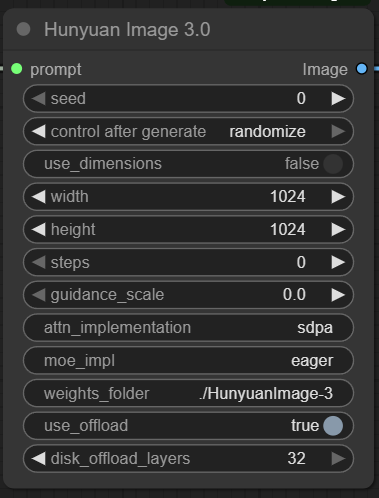
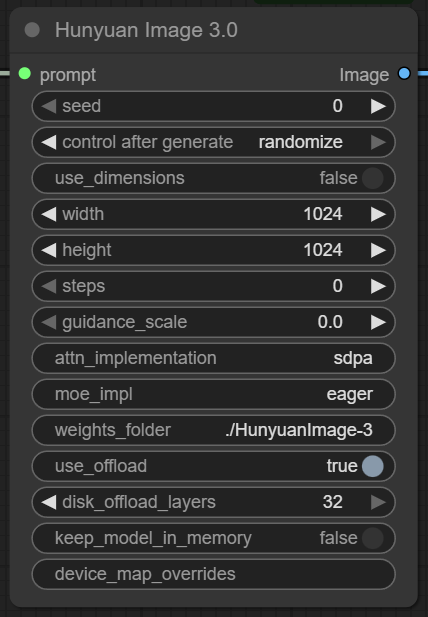
Release 1.1.0 (#14)
* add device map override functionality

* fix syntax

* update readme

* Edit inference file so it keeps memory reserved

* prepare release branch

* make it so that the model is optionally unloaded between generations

* remove newline

* update assets and example workflow

---------

Changed region(s): [[0.0, 0.0301, 1.0, 0.9639]]

diff --git a/hunyuan_image_3_gen.py b/hunyuan_image_3_gen.py
@@ -5,6 +5,10 @@ from transformers import AutoModelForCausalLM
 class HunyuanImage3:
     """ComfyUI node for generating images with Hunyuan Image 3.0"""
     
+    # Use class variable to store the loaded model so it persists between method calls
+    # This prevents the model from being unloaded and reserved RAM from being released
+    model = None
+    
     @classmethod
     def INPUT_TYPES(cls):
         return {
@@ -18,10 +22,14 @@ class HunyuanImage3:
                 "guidance_scale": ("FLOAT", {"default": 0.0, "min": 0.0, "max": 100.0, "tooltip": "If 0, it will use the model's default of 7.5."}),
                 "attn_implementation": ("STRING", {"multiline": False, "default": "sdpa", "tooltip": "Use sdpa. If FlashAttention is installed, you may try flash_attention_2."}),
                 "moe_impl": ("STRING", {"multiline": False, "default": "eager", "tooltip": "Use eager. If FlashInfer is installed, you may try flashinfer."}),
-                "weights_folder": ("STRING", {"multiline": False, "default": "./HunyuanImage-3", "tooltip": "The path to the Hunyuan Image 3.0 weights on disk. Note: the path cannot have a \".\"."}),
+                "weights_folder": ("STRING", {"multiline": False, "default": "./HunyuanImage-3", "tooltip": "The path to the Hunyuan Image 3.0 weights on disk."}),
                 "use_offload": ("BOOLEAN", {"default": True, "tooltip": "If true, a custom device_map will be created. Otherwise, device_map will be auto."}),
                 "disk_offload_layers": ("INT", {"default": 32, "min": 0, "max": 32, "tooltip": "The number of layers to offload from memory to disk. IMPORTANT: Read the README."}),
+                "keep_model_in_memory": ("BOOLEAN", {"default": False, "tooltip": "If true, the model will be kept in memory between runs."}),
             },
+            "optional": {
+                "device_map_overrides": ("STRING", {"multiline": False, "tooltip": "ADVANCED: Device map key=value overrides, comma-separated. e.g. \"model.layers.0=0,model.layers.1=1\"."}),
+            }
         }
     
     RETURN_TYPES = ("IMAGE",)
@@ -44,31 +52,23 @@ class HunyuanImage3:
         weights_folder: str,
         use_offload: bool,
         disk_offload_layers: int,
+        keep_model_in_memory: bool,
+        device_map_overrides: str,
     ):
         """Generate an image"""
         model_id = weights_folder
 
-        if use_offload:
-            device_map = {'vae': 0, 'vision_model': 'cpu', 'vision_aligner': 'cpu', 'timestep_emb': 'cpu', 'patch_embed': 'cpu', 'time_embed': 'cpu', 'final_layer': 'cpu', 'time_embed_2': 'cpu', 'model.wte': 'cpu', 'model.layers.0': 'cpu', 'model.layers.1': 'cpu', 'model.layers.2': 'cpu', 'model.layers.3': 'cpu', 'model.layers.4': 'cpu', 'model.layers.5': 'cpu', 'model.layers.6': 'cpu', 'model.layers.7': 'cpu', 'model.layers.8': 'cpu', 'model.layers.9': 'cpu', 'model.layers.10': 'cpu', 'model.layers.11': 'cpu', 'model.layers.12': 'cpu', 'model.layers.13': 'cpu', 'model.layers.14': 'cpu', 'model.layers.15': 'cpu', 'model.layers.16': 'cpu', 'model.layers.17': 'cpu', 'model.layers.18': 'cpu', 'model.layers.19': 'cpu', 'model.layers.20': 'cpu', 'model.layers.21': 'cpu', 'model.layers.22': 'cpu', 'model.layers.23': 'cpu', 'model.layers.24': 'cpu', 'model.layers.25': 'cpu', 'model.layers.26': 'cpu', 'model.layers.27': 'cpu', 'model.layers.28': 'cpu', 'model.layers.29': 'cpu', 'model.layers.30': 'cpu', 'model.layers.31': 'cpu', 'model.ln_f': 'cpu', 'lm_head': 'cpu'}
-
-            top_layer_num = 31
-            if disk_offload_layers > 0:
-                for i in range(disk_offload_layers):
-                    layer_num = top_layer_num - i
-                    device_map[f"model.layers.{layer_num}"] = "disk"
+        # Load model
+        if keep_model_in_memory:
+            # If the model is already loaded, use it. Otherwise, load it.
+            if self.model is not None:
+                model = self.model
+            else:
+                model = self._load_model(model_id, attn_implementation, moe_impl, use_offload, disk_offload_layers, device_map_overrides)
+                self.model = model
         else:
-            device_map = 'auto'
-
-        model_kwargs = dict(
-            attn_implementation=attn_implementation,
-            trust_remote_code=True,
-            device_map=device_map,
-            torch_dtype="auto",
-            moe_impl=moe_impl,
-        )
-
-        model = AutoModelForCausalLM.from_pretrained(model_id, **model_kwargs)
-        model.load_tokenizer(model_id)
+            self.model = None
+            model = self._load_model(model_id, attn_implementation, moe_impl, use_offload, disk_offload_layers, device_map_overrides)
 
         # Generate image
         image_kwargs = {'seed': seed}
@@ -89,3 +89,50 @@ class HunyuanImage3:
 
         return (image,)
 
+    def _load_model(self, model_id, attn_implementation, moe_impl, use_offload, disk_offload_layers, device_map_overrides):
+        if use_offload or device_map_overrides:
+            device_map = {'vae': 0, 'vision_model': 'cpu', 'vision_aligner': 'cpu', 'timestep_emb': 'cpu', 'patch_embed': 'cpu', 'time_embed': 'cpu', 'final_layer': 'cpu', 'time_embed_2': 'cpu', 'model.wte': 'cpu', 'model.layers.0': 'cpu', 'model.layers.1': 'cpu', 'model.layers.2': 'cpu', 'model.layers.3': 'cpu', 'model.layers.4': 'cpu', 'model.layers.5': 'cpu', 'model.layers.6': 'cpu', 'model.layers.7': 'cpu', 'model.layers.8': 'cpu', 'model.layers.9': 'cpu', 'model.layers.10': 'cpu', 'model.layers.11': 'cpu', 'model.layers.12': 'cpu', 'model.layers.13': 'cpu', 'model.layers.14': 'cpu', 'model.layers.15': 'cpu', 'model.layers.16': 'cpu', 'model.layers.17': 'cpu', 'model.layers.18': 'cpu', 'model.layers.19': 'cpu', 'model.layers.20': 'cpu', 'model.layers.21': 'cpu', 'model.layers.22': 'cpu', 'model.layers.23': 'cpu', 'model.layers.24': 'cpu', 'model.layers.25': 'cpu', 'model.layers.26': 'cpu', 'model.layers.27': 'cpu', 'model.layers.28': 'cpu', 'model.layers.29': 'cpu', 'model.layers.30': 'cpu', 'model.layers.31': 'cpu', 'model.ln_f': 'cpu', 'lm_head': 'cpu'}
+
+            if use_offload:
+                top_layer_num = 31
+                if disk_offload_layers > 0:
+                    for i in range(disk_offload_layers):
+                        layer_num = top_layer_num - i
+                        device_map[f"model.layers.{layer_num}"] = "disk"
+
+            if device_map_overrides:
+                overrides = device_map_overrides.strip().split(',')
+                for override in overrides:
+                    split_override = override.strip().split('=')
+                    if len(split_override) != 2:
+                        raise 'device_map_overrides is invalid'
+                    key = split_override[0]
+                    value = split_override[-1]
+
+                    # Support `0` as integer and `cuda:0` as string
+                    try:
+                        value = int(value)
+                    except:
+                        pass
+
+                    device_map[key] = value
+        else:
+            device_map = 'auto'
+
+        self._log(f"Using device map: {device_map}")
+
+        model_kwargs = dict(
+            attn_implementation=attn_implementation,
+            trust_remote_code=True,
+            device_map=device_map,
+            torch_dtype="auto",
+            moe_impl=moe_impl,
+        )
+
+        model = AutoModelForCausalLM.from_pretrained(model_id, **model_kwargs)
+        model.load_tokenizer(model_id)
+
+        return model
+
+    def _log(self, string):
+        print(f"HunyuanImage3: {string}")

diff --git a/README.md b/README.md
@@ -66,9 +66,11 @@ The node has the following parameters:
 - guidance_scale - CFG. The recommended value is 7.5.
 - attn_implementation - Valid values are `sdpa` and `flash_attention_2`
 - moe_impl - Valid values are `eager` and `flashinfer`
-- weights_folder - The path to the model's weights on disk. Note: the path can't have a dot in it.
+- weights_folder - The path to the model's weights on disk.
 - use_offload - Whether to use CPU / disk offload.
 - disk_offload_layers - The number of layers (out of 32) to offload to disk, rather than hold in memory. See the [Performance Tuning](#performance-tuning) section for more details.
+- keep_model_in_memory - If enabled, the model will be kept in memory between generations.
+- device_map_overrides - ADVANCED: You can modify the custom device_map using this. Overrides are expressed as key=value pairs, comma-separated. For example, to put layers 1 and 2 on GPU 1, you would do `model.layers.1=1,model.layers.2=1`.
 
 Basic usage: Connect a String (Multiline) input to the `prompt` input, and connect the `Image` output to a Save Image node. An [example workflow](workflows/hunyuan_image_3_example.json) is provided.
 ![example workflow](assets/workflow_screenshot.png)
@@ -77,7 +79,7 @@ Basic usage: Connect a String (Multiline) input to the `prompt` input, and conne
 
 If you are using disk offload, you need to choose the number of layers to offload such that your RAM is not completely filled, so that the system does not use swap. This may require some trial-and-error while monitoring memory usage. On a system with 128GB of memory, 10 layers is a good starting point.
 
-With an RTX 4090, 128GB DDR4, PCIe 4.0, an image will take on the order of 1-1.5 hours to generate.
+On the tested system, an image takes on the order of 1-1.5 hours to generate, using 50 steps.
 
 ## Recommended Usage
 
